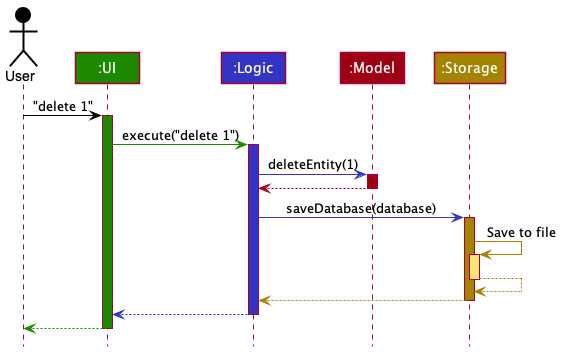
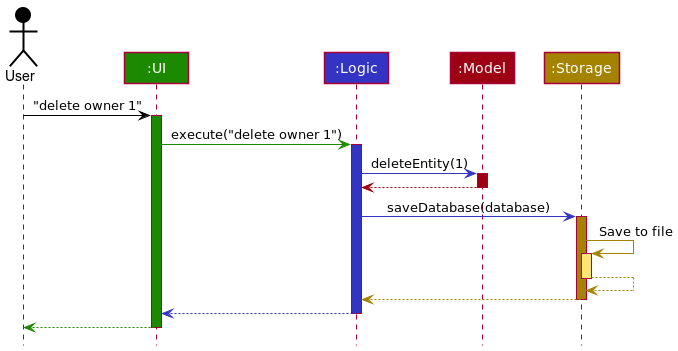
DG: Update example used in architecture sequence diagram

diff --git a/docs/DeveloperGuide.md b/docs/DeveloperGuide.md
@@ -49,7 +49,7 @@ in general which solves the general problem of untrained dogs in Singapore being
 
 ### Architecture
 
-<img src="images/ArchitectureDiagram.png" />
+![Architecture Diagram](images/ArchitectureDiagram.png)
 
 The ***Architecture Diagram*** given above explains the high-level design of the App. Given below is a quick overview of each component.
 
@@ -77,9 +77,9 @@ For example, the `Logic` component (see the class diagram given below) defines i
 
 **How the architecture components interact with each other**
 
-The *Sequence Diagram* below shows how the components interact with each other for the scenario where the user issues the command `delete 1`.
+The *Sequence Diagram* below shows how the components interact with each other for the scenario where the user issues the command `delete owner 1`.
 
-<img src="images/ArchitectureSequenceDiagram.png" width="574" />
+![Architecture Sequence Diagram](images/ArchitectureSequenceDiagram.png)
 
 The sections below give more details of each component.
 
@@ -89,7 +89,7 @@ The sections below give more details of each component.
 
 ### UI component
 
-![Structure of the UI Component](images/UiClassDiagram.png 
+![Structure of the UI Component](images/UiClassDiagram.png)
 
 **API** :
 [`Ui.java`](https://github.com/AY2021S2-CS2103T-T10-1/tp/blob/master/src/main/java/dog/pawbook/ui/Ui.java)
